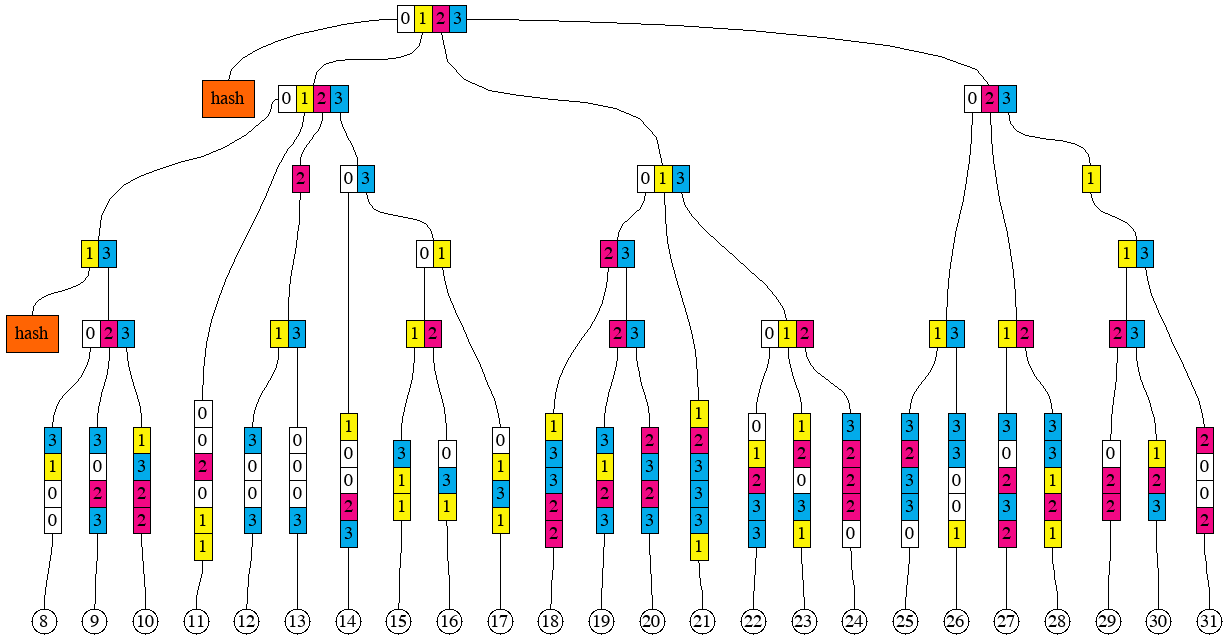
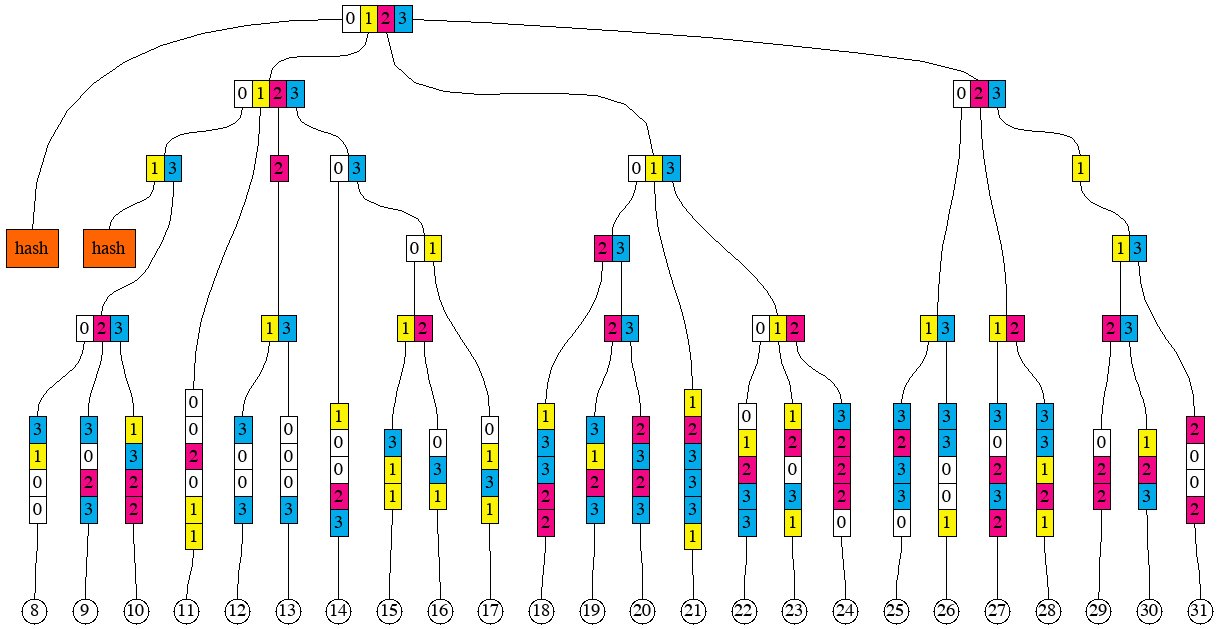
Added multiproofs

diff --git a/cmd/pics/pics.go b/cmd/pics/pics.go
@@ -247,6 +247,117 @@ func prefix_groups_5() {
 	}
 }
 
+func prefix_groups_6() {
+	fmt.Printf("Prefix groups 6\n")
+	filename := "prefix_groups_6.dot"
+	f, err := os.Create(filename)
+	if err != nil {
+		panic(err)
+	}
+	keys := generate_prefix_groups()
+	sort.Strings(keys)
+	tr := trie.New(common.Hash{}, false)
+	var hightlights [][]byte
+	for i, key := range keys {
+		hexKey := make([]byte, len(key)/2)
+		for j := 0; j < len(hexKey); j++ {
+			hexKey[j] = key[2*j+1] | (key[2*j] << 4)
+		}
+		vs := fmt.Sprintf("%d", i)
+		tr.Update(hexKey, []byte(vs), 0)
+		hightlights = append(hightlights, hexKey)
+	}
+	tr.Fold(hightlights[:8])
+	tr.Fold(hightlights[8:16])
+	visual.StartGraph(f)
+	trie.Visual(tr, hightlights, f, visual.QuadIndexColors, visual.QuadFontColors)
+	visual.EndGraph(f)
+	if err := f.Close(); err != nil {
+		panic(err)
+	}
+	cmd := exec.Command("dot", "-Tpng:gd", "-O", filename)
+	if output, err := cmd.CombinedOutput(); err != nil {
+		fmt.Printf("error: %v, output: %s\n", err, output)
+	}
+}
+
+func prefix_groups_7() {
+	fmt.Printf("Prefix groups 7\n")
+	filename := "prefix_groups_7.dot"
+	f, err := os.Create(filename)
+	if err != nil {
+		panic(err)
+	}
+	keys := generate_prefix_groups()
+	sort.Strings(keys)
+	tr := trie.New(common.Hash{}, false)
+	var hightlights [][]byte
+	for i, key := range keys {
+		hexKey := make([]byte, len(key)/2)
+		for j := 0; j < len(hexKey); j++ {
+			hexKey[j] = key[2*j+1] | (key[2*j] << 4)
+		}
+		vs := fmt.Sprintf("%d", i)
+		tr.Update(hexKey, []byte(vs), 0)
+		hightlights = append(hightlights, hexKey)
+	}
+	tr.Fold(hightlights[:8])
+	tr.Fold(hightlights[8:16])
+	tr.Fold(hightlights[16:24])
+	tr.Fold(hightlights[24:])
+	visual.StartGraph(f)
+	trie.Visual(tr, hightlights, f, visual.QuadIndexColors, visual.QuadFontColors)
+	visual.EndGraph(f)
+	if err := f.Close(); err != nil {
+		panic(err)
+	}
+	cmd := exec.Command("dot", "-Tpng:gd", "-O", filename)
+	if output, err := cmd.CombinedOutput(); err != nil {
+		fmt.Printf("error: %v, output: %s\n", err, output)
+	}
+}
+
+func prefix_groups_8() {
+	fmt.Printf("Prefix groups 8\n")
+	filename := "prefix_groups_8.dot"
+	f, err := os.Create(filename)
+	if err != nil {
+		panic(err)
+	}
+	keys := generate_prefix_groups()
+	sort.Strings(keys)
+	tr := trie.New(common.Hash{}, false)
+	var hightlights [][]byte
+	for i, key := range keys {
+		hexKey := make([]byte, len(key)/2)
+		for j := 0; j < len(hexKey); j++ {
+			hexKey[j] = key[2*j+1] | (key[2*j] << 4)
+		}
+		vs := fmt.Sprintf("%d", i)
+		tr.Update(hexKey, []byte(vs), 0)
+		hightlights = append(hightlights, hexKey)
+	}
+	var folds [][]byte
+	for i, h := range hightlights {
+		switch i {
+		case 3, 8, 22, 23:
+		default:
+			folds = append(folds, h)
+		}
+	}
+	tr.Fold(folds)
+	visual.StartGraph(f)
+	trie.Visual(tr, hightlights, f, visual.QuadIndexColors, visual.QuadFontColors)
+	visual.EndGraph(f)
+	if err := f.Close(); err != nil {
+		panic(err)
+	}
+	cmd := exec.Command("dot", "-Tpng:gd", "-O", filename)
+	if output, err := cmd.CombinedOutput(); err != nil {
+		fmt.Printf("error: %v, output: %s\n", err, output)
+	}
+}
+
 func main() {
 	flag.Parse()
 	switch *account {
@@ -260,5 +371,11 @@ func main() {
 		prefix_groups_4()
 	case "prefix_groups_5":
 		prefix_groups_5()
+	case "prefix_groups_6":
+		prefix_groups_6()
+	case "prefix_groups_7":
+		prefix_groups_7()
+	case "prefix_groups_8":
+		prefix_groups_8()
 	}
 }

diff --git a/trie/visual.go b/trie/visual.go
@@ -33,16 +33,24 @@ func Visual(t *Trie, highlights [][]byte, w io.Writer, indexColors []string, fon
 		highlightsHex = append(highlightsHex, keybytesToHex(h))
 	}
 	leaves := make(map[string]struct{})
-	visualNode(t.root, []byte{}, highlightsHex, w, indexColors, fontColors, leaves)
+	hashes := make(map[string]struct{})
+	visualNode(t.root, []byte{}, highlightsHex, w, indexColors, fontColors, leaves, hashes)
 	fmt.Fprintf(w, "{rank = same;")
 	for leaf := range leaves {
 		fmt.Fprintf(w, "n_%x;", leaf)
 	}
 	fmt.Fprintf(w, `};
 `)
+	fmt.Fprintf(w, "{rank = same;")
+	for hash := range hashes {
+		fmt.Fprintf(w, "n_%x;", hash)
+	}
+	fmt.Fprintf(w, `};
+`)
 }
 
-func visualNode(nd node, hex []byte, highlights [][]byte, w io.Writer, indexColors []string, fontColors []string, leaves map[string]struct{}) {
+func visualNode(nd node, hex []byte, highlights [][]byte, w io.Writer, indexColors []string, fontColors []string,
+	leaves map[string]struct{}, hashes map[string]struct{}) {
 	switch n := nd.(type) {
 	case nil:
 	case *shortNode:
@@ -67,7 +75,7 @@ func visualNode(nd node, hex []byte, highlights [][]byte, w io.Writer, indexColo
 					newHighlights = append(newHighlights, h[len(nKey):])
 				}
 			}
-			visualNode(n.Val, concat(hex, nKey...), newHighlights, w, indexColors, fontColors, leaves)
+			visualNode(n.Val, concat(hex, nKey...), newHighlights, w, indexColors, fontColors, leaves, hashes)
 		} else {
 			leaves[string(hex)] = struct{}{}
 			visual.Circle(w, fmt.Sprintf("e_%s", string(v)), string(v))
@@ -125,8 +133,8 @@ func visualNode(nd node, hex []byte, highlights [][]byte, w io.Writer, indexColo
     n_%x:h%d -> n_%x;
     n_%x:h%d -> n_%x;
 `, hex, i1, concat(hex, i1), hex, i2, concat(hex, i2))
-		visualNode(n.child1, concat(hex, i1), highlights1, w, indexColors, fontColors, leaves)
-		visualNode(n.child2, concat(hex, i2), highlights2, w, indexColors, fontColors, leaves)
+		visualNode(n.child1, concat(hex, i1), highlights1, w, indexColors, fontColors, leaves, hashes)
+		visualNode(n.child2, concat(hex, i2), highlights2, w, indexColors, fontColors, leaves, hashes)
 	case *fullNode:
 		fmt.Fprintf(w,
 			`
@@ -180,9 +188,10 @@ func visualNode(nd node, hex []byte, highlights [][]byte, w io.Writer, indexColo
 					newHighlights = append(newHighlights, h[1:])
 				}
 			}
-			visualNode(child, concat(hex, byte(i)), newHighlights, w, indexColors, fontColors, leaves)
+			visualNode(child, concat(hex, byte(i)), newHighlights, w, indexColors, fontColors, leaves, hashes)
 		}
 	case hashNode:
+		hashes[string(hex)] = struct{}{}
 		visual.Box(w, fmt.Sprintf("n_%x", hex), "hash")
 	}
 }

diff --git a/docs/programmers_guide/guide.md b/docs/programmers_guide/guide.md
@@ -192,9 +192,83 @@ After hashing the first chunk, the tree would look as follows.
 ![prefix_groups_5](prefix_groups_5.dot.gd.png)
 To regenerate this picture, run `go run cmd/pics/pics.go -pic prefix_groups_5`
 
+If we apply the same produce to the next chunk of 8 leaves, we will get to the following picture.
+![prefix_groups_6](prefix_groups_6.dot.gd.png)
+To regenerate this picture, run `go run cmd/pics/pics.go -pic prefix_groups_6`
+
+And, after hashing the two remaning chunks.
+![prefix_groups_7](prefix_groups_7.dot.gd.png)
+To regenerate this picture, run `go run cmd/pics/pics.go -pic prefix_groups_7`
+
+Now, if we were given the sequence of these hashes, we need to combine them to produce the root hash.
+This needs an introduction on an extra opcode, which takes specified number hash from the sequence (now we can have
+two sequences, one with key-value pairs, and another - with hashes), and places them on the stack
+
+4. `HASH number_of_hashes`
+
+```
+HASH 3
+BRANCH 13
+HASH 5
+BRANCH 12
+HASH 1
+BRANCH 01
+BRANCH 03
+BRANCH 0123
+HASH 5
+BRANCH 012
+BRANCH 013
+HASH 1
+BRANCH 0123 
+```
+
 It can then be readily observed that the first item in any prefix group has this property that its common prefix
 with the item immediately to the right (or empty string if the item is the very last) is longer than its common
 prefix with the item immediately to the left (or empty string if the item is the very first).
 Analogously, the last item in any prefix group has the property that its common prefix with the item
-immediately to the left is longer than its common prefix with the item immediately to the right.
+immediately to the left is longer than its common prefix with the item immediately to the right. The consequences
+of this observation are that if we were to keep sequences of key-value pairs and hashes in chunks,
+the modications of the sequence of key-value pairs in a chunk (insertion of new key or removal
+of an existing key) may affect the structural information of an adjusent chunk.
 
+### Multiproofs
+
+Encoding structural information separately from the sequences of key-value pairs and hashes allows
+describing so-called "multiproofs". Suppose that we know the root hash of the sequence of key-value pairs for our
+example, but we do not know any of the pairs themselves. And we ask someone to reveal keys and value for
+the leafs `3`, `8`, `22` and `23`, and enough information to proof to us that the revealed keys and values
+indeed belong to the sequence. Here is the picture that gives the idea of which hashes need to be provided
+together with the selected key-value pairs.
+![prefix_groups_8](prefix_groups_8.dot.gd.png)
+To regenerate this picture, run `go run cmd/pics/pics.go -pic prefix_groups_8`
+
+And here is the corresponding structural information:
+```
+HASH 2
+LEAF 5
+HASH 1
+BRANCH 023
+HASH 2
+BRANCH 0123
+HASH 1
+LEAF 4
+HASH 2
+BRANCH 023
+BRANCH 13
+HASH 3
+BRANCH 0123
+HASH 2
+LEAF 5
+LEAF 5
+HASH 1
+BRANCH 012
+BRANCH 013
+HASH 1
+BRANCH 0123
+```
+
+We can think of a multiproof as the combination of 3 things:
+
+1. Sequence of those 4 key-value pairs
+2. Sequence of 15 hashes
+3. structural information that lets us compute the root hash out of the sequences (1) and (2)
